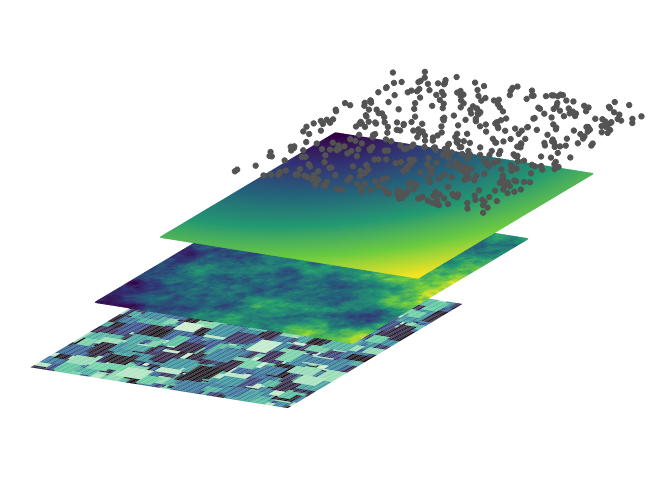
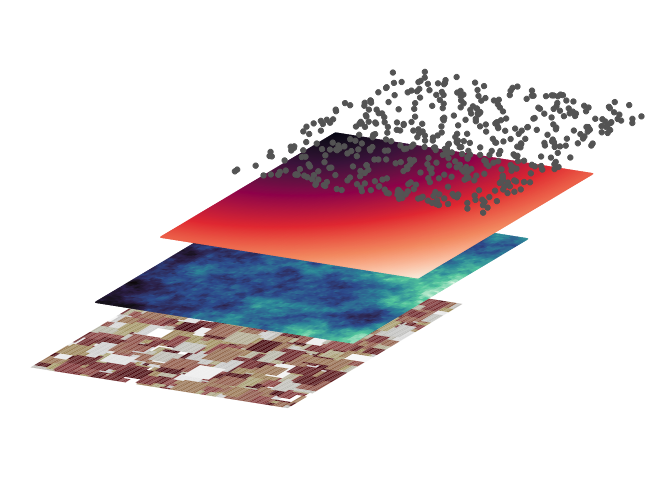
update

Changed region(s): [[0.0312, 0.2812, 0.875, 0.875]]

diff --git a/README.md b/README.md
@@ -35,17 +35,28 @@ tilt_landscape_points <- tilt_map(landscape_points, x_shift = 150, y_shift = 150
 map_list <- list(tilt_landscape_1, tilt_landscape_2, tilt_landscape_3, tilt_landscape_points)
 
 plot_tiltedmaps(map_list, 
-                c("layer", "layer", "layer", NA), 
-                palette = c("bilbao", "mako", "rocket", NA),
+                layer = c("value", "value", "value", NA),
+                palette = c("bilbao", "mako", "rocket", "turbo"),
                 color = "grey40")
-#> Scale for 'fill' is already present. Adding another scale for 'fill', which
-#> will replace the existing scale.
-#> Warning in viridisLite::viridis(n, alpha, begin, end, direction, option): Option
-#> 'NA' does not exist. Defaulting to 'viridis'.
-#> Scale for 'colour' is already present. Adding another scale for 'colour',
-#> which will replace the existing scale.
-#> Warning in viridisLite::viridis(n, alpha, begin, end, direction, option): Option
-#> 'NA' does not exist. Defaulting to 'viridis'.
+#> Warning in if (is.na(layer)) layer <- "value": the condition has length > 1 and
+#> only the first element will be used
 ```
 
 <img src="man/figures/README-example-1.png" width="100%" />
+
+### More advanced examples
+
+Some more realistic looking data (DEM, drought and precipitation for
+continental USA):
+
+``` r
+tilt_landscape_1 <- tilt_map(dem_usa)
+tilt_landscape_2 <- tilt_map(drought_usa, x_shift = 0, y_shift = 25)
+tilt_landscape_3 <- tilt_map(prec_usa, x_shift = 0, y_shift = 50)
+
+map_list <- list(tilt_landscape_1, tilt_landscape_2, tilt_landscape_3)
+
+plot_tiltedmaps(map_list, palette =c("tofino", "rocket", "mako"), direction = c(-1, 1, 1)) 
+```
+
+<img src="./man/figures/README-figure-real.png" width="100%" />
